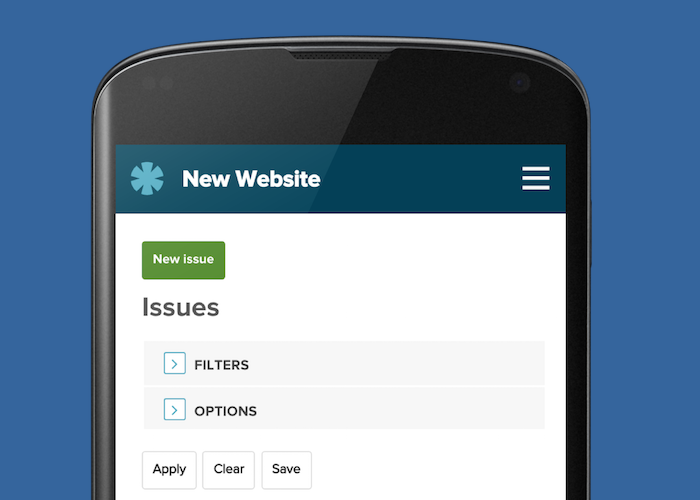
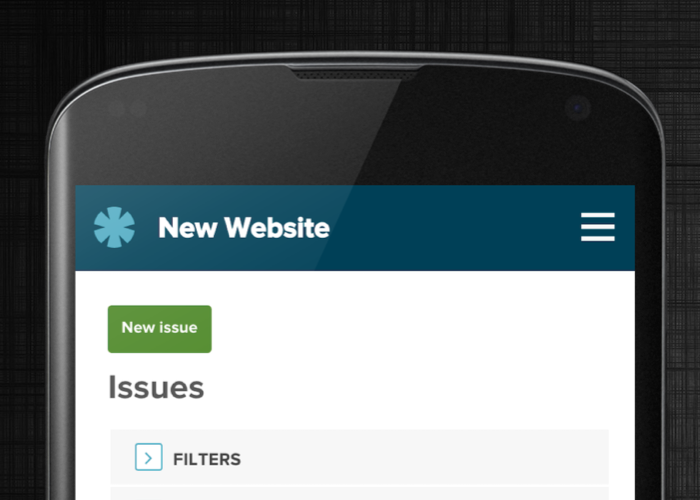
Replacing background on planio image

diff --git a/_sass/_layout.scss b/_sass/_layout.scss
@@ -183,7 +183,7 @@
   width: 300px;
   padding: $spacing-unit / 2;
   margin: 0 $spacing-unit;
-  border: 1px solid $brand-color;
+  border: 1px solid $grey-color-light;
 
 
   @include media-query($on-palm) {
